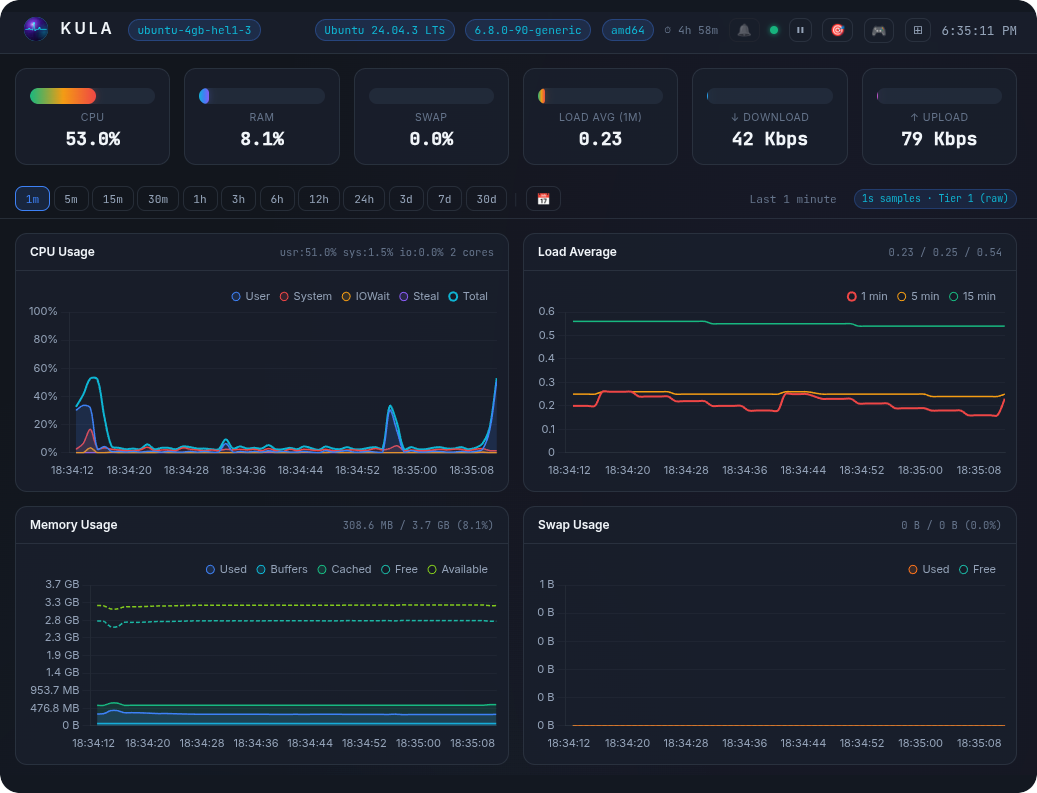
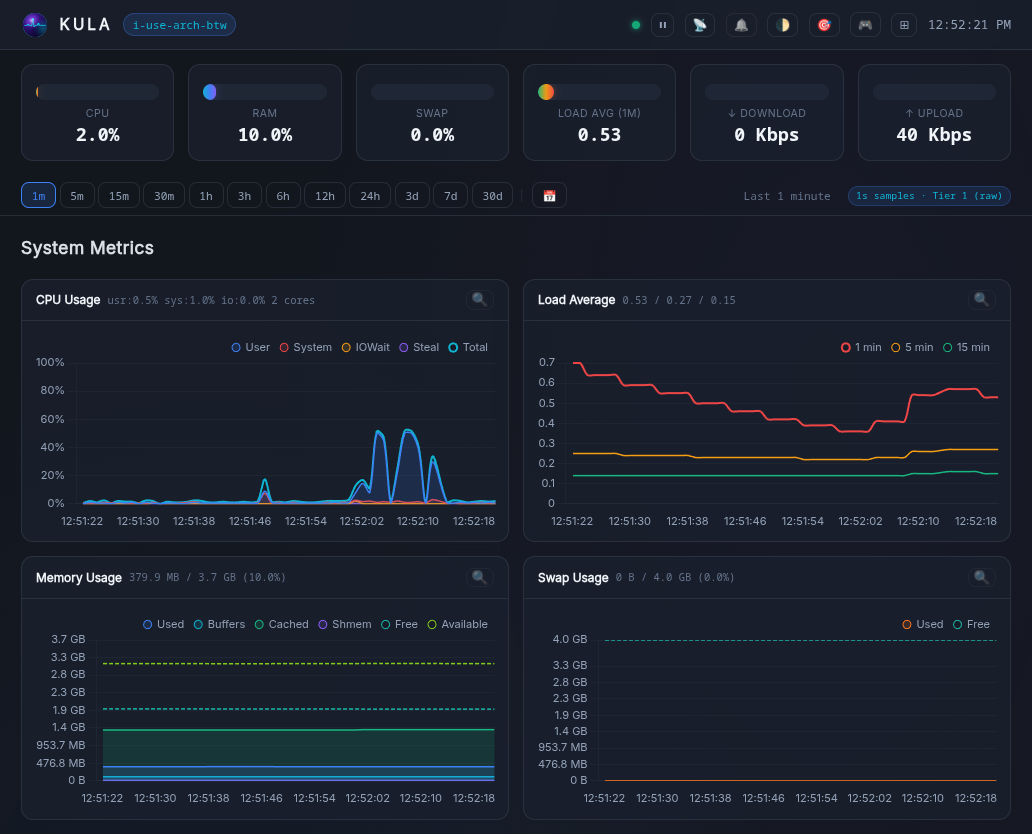
landing: update stars logic, update dark mode screenshot

diff --git a/landing/landing.js b/landing/landing.js
@@ -47,28 +47,50 @@ document.addEventListener('DOMContentLoaded', () => {
     // ---- Fetch GitHub Stars ----
     async function fetchStars() {
         const badges = document.querySelectorAll('.github-stars-count');
+        const DEFAULT_STARS = 436;
+        const CACHE_KEY = 'kula-stars';
+        const TIMESTAMP_KEY = 'kula-stars-time';
+        const ONE_HOUR = 60 * 60 * 1000;
+
+        const cachedStars = localStorage.getItem(CACHE_KEY);
+        const cachedTime = localStorage.getItem(TIMESTAMP_KEY);
+        const now = Date.now();
+
+        const updateUI = (count) => {
+            const starsText = count >= 1000 ? (count / 1000).toFixed(1) + 'k' : count;
+            badges.forEach(badge => {
+                badge.textContent = '⭐ ' + starsText;
+                badge.classList.remove('hidden');
+            });
+        };
+
+        // 1. Check if cached and valid (less than 1 hour old)
+        if (cachedStars && cachedTime && (now - parseInt(cachedTime)) < ONE_HOUR) {
+            updateUI(parseInt(cachedStars));
+            return;
+        }
+
+        // 2. Try to fetch from API
         try {
             const resp = await fetch('https://api.github.com/repos/c0m4r/kula');
-            if (resp.status === 403) {
-                console.warn('GitHub API rate limit exceeded. Stars counter hidden.');
-                badges.forEach(badge => badge.classList.add('hidden'));
-                return;
-            }
             if (resp.ok) {
                 const data = await resp.json();
                 const stars = data.stargazers_count;
                 if (stars !== undefined) {
-                    const starsText = stars >= 1000 ? (stars / 1000).toFixed(1) + 'k' : stars;
-                    badges.forEach(badge => {
-                        badge.textContent = '⭐ ' + starsText;
-                        badge.classList.remove('hidden');
-                    });
+                    localStorage.setItem(CACHE_KEY, stars);
+                    localStorage.setItem(TIMESTAMP_KEY, now.toString());
+                    updateUI(stars);
+                    return;
                 }
+            } else if (resp.status === 403) {
+                console.warn('GitHub API rate limit exceeded. Using default stars.');
             }
         } catch (e) {
             console.error('Failed to fetch stars:', e);
-            badges.forEach(badge => badge.classList.add('hidden'));
         }
+
+        // 3. Fallback to default value if API fails or rate limited
+        updateUI(DEFAULT_STARS);
     }
     fetchStars();
 

diff --git a/landing/index.html b/landing/index.html
@@ -288,7 +288,7 @@
         </div>
     </footer>
 
-    <script src="landing.js" integrity="sha384-8a4cKC2s3Scgr+skIl2xphmKuPoWKTORrwU3cWgFRtl8yj+1T5yHjRUO1P7kZ1ZC"
+    <script src="landing.js" integrity="sha384-NBg2SiP9utO8tCrn6xaB3bdQCkkMoRxgvrrxImhRGmAlKqCO5cvifACWNTAGKy17"
         crossorigin="anonymous"></script>
 </body>
 
